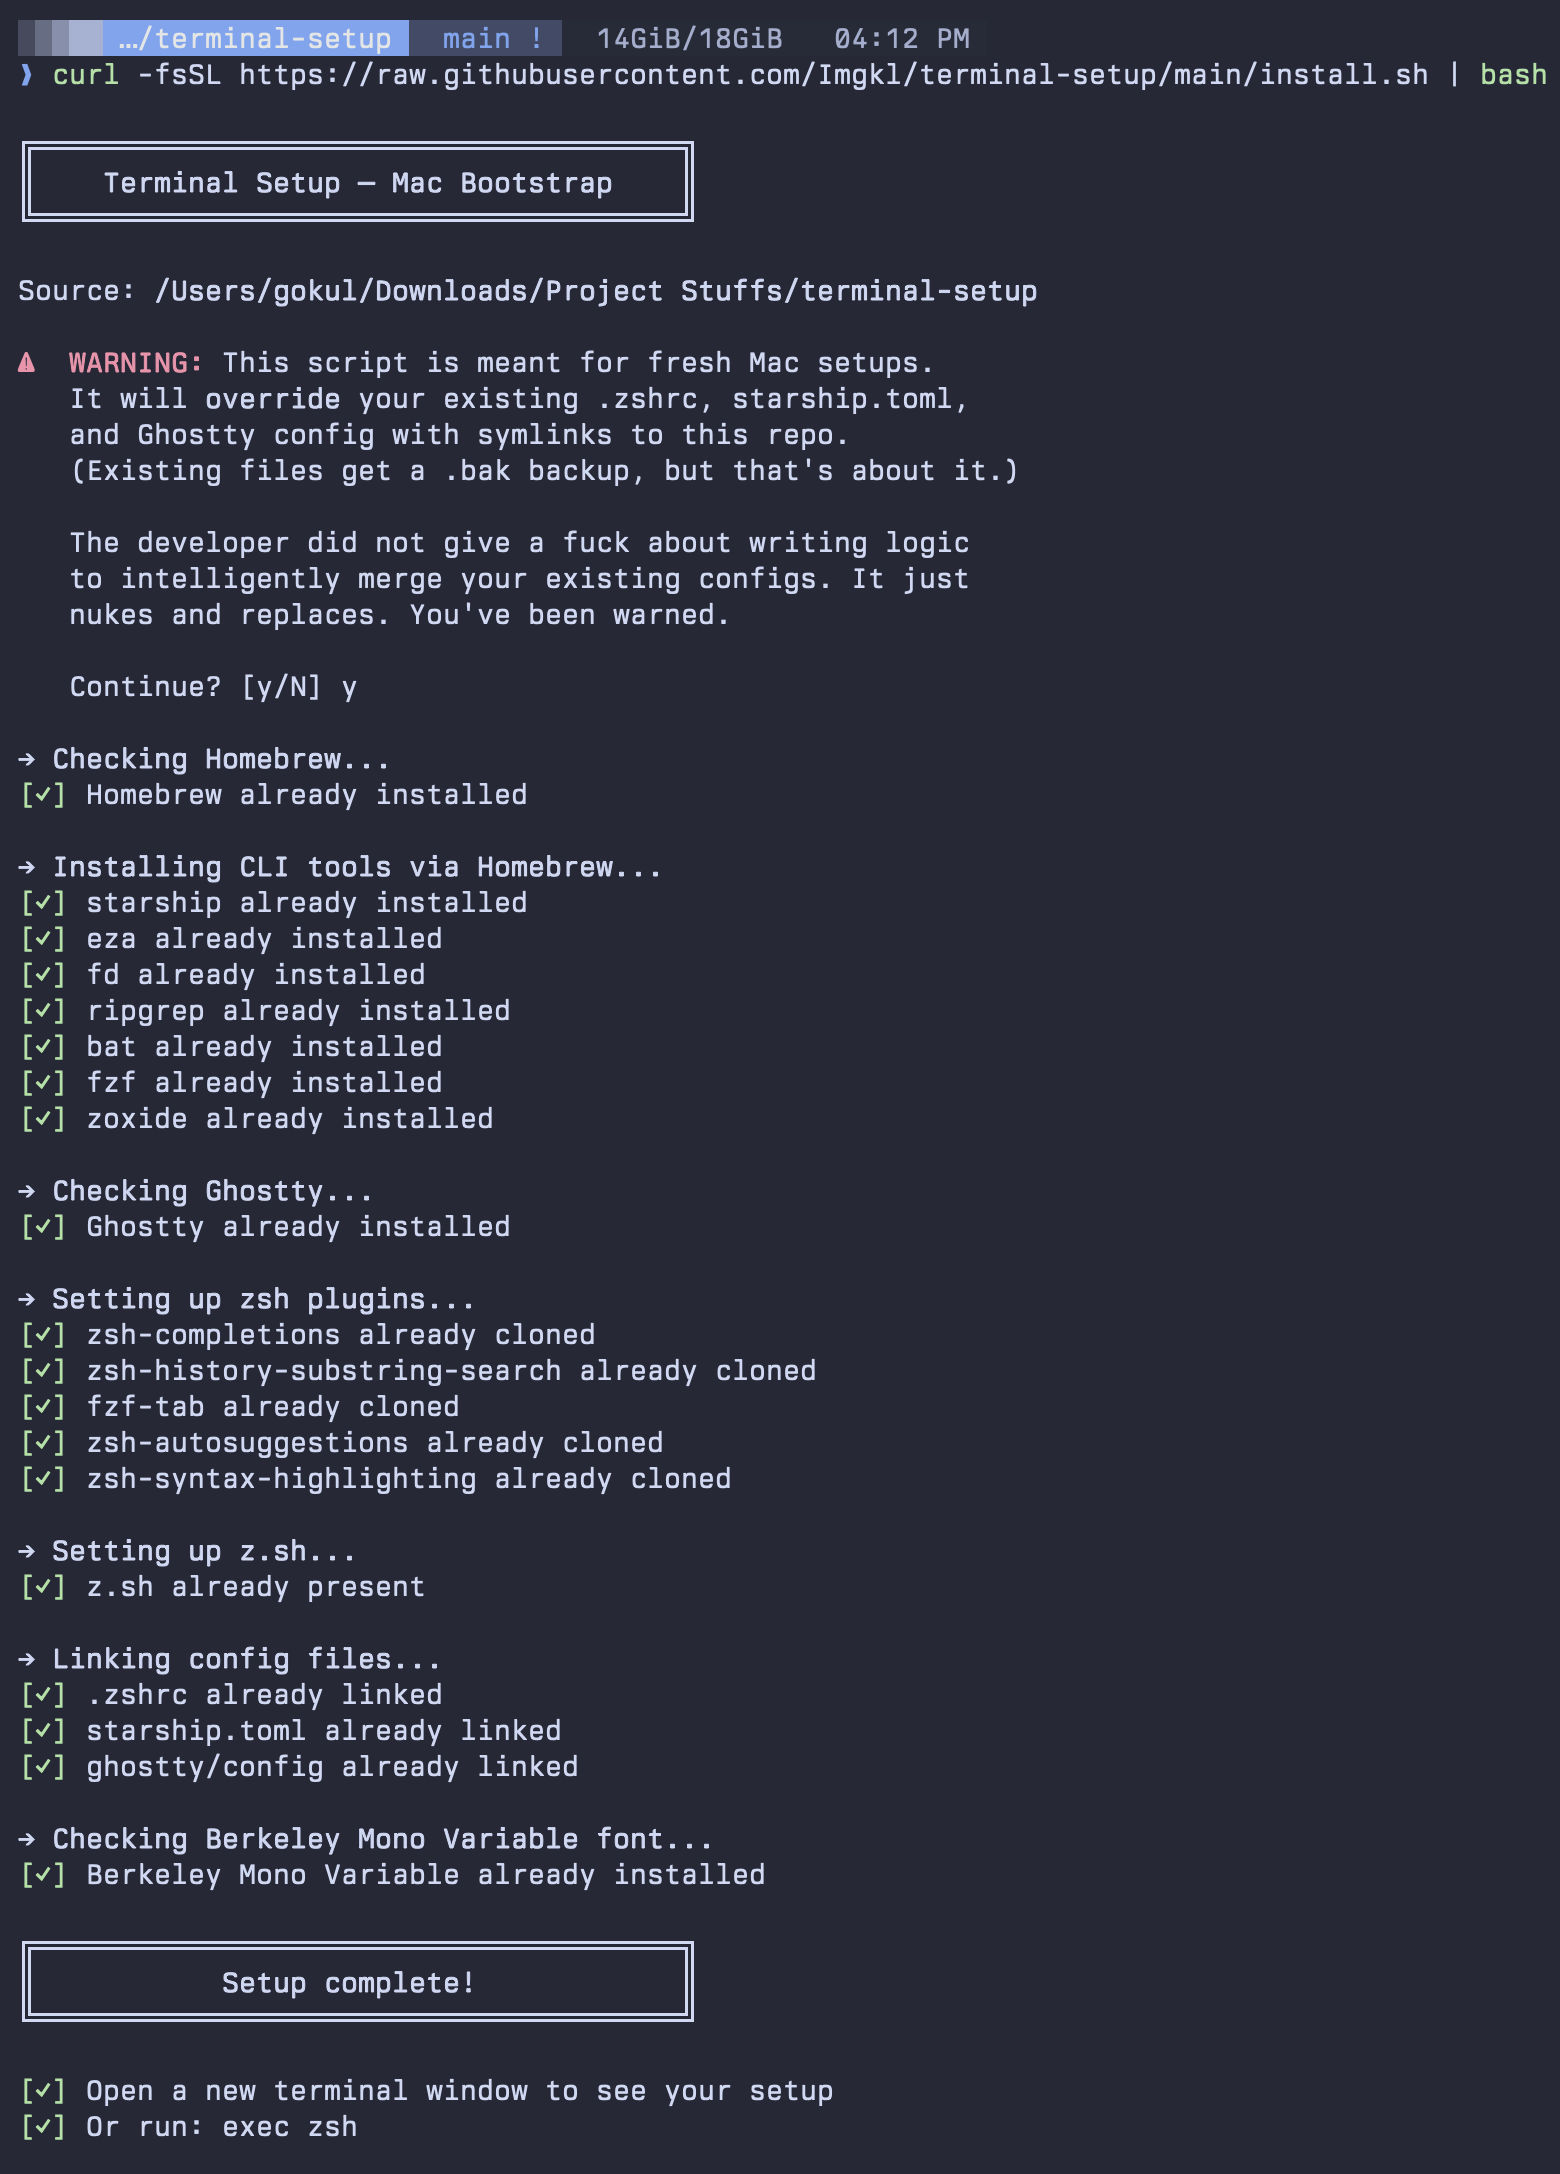
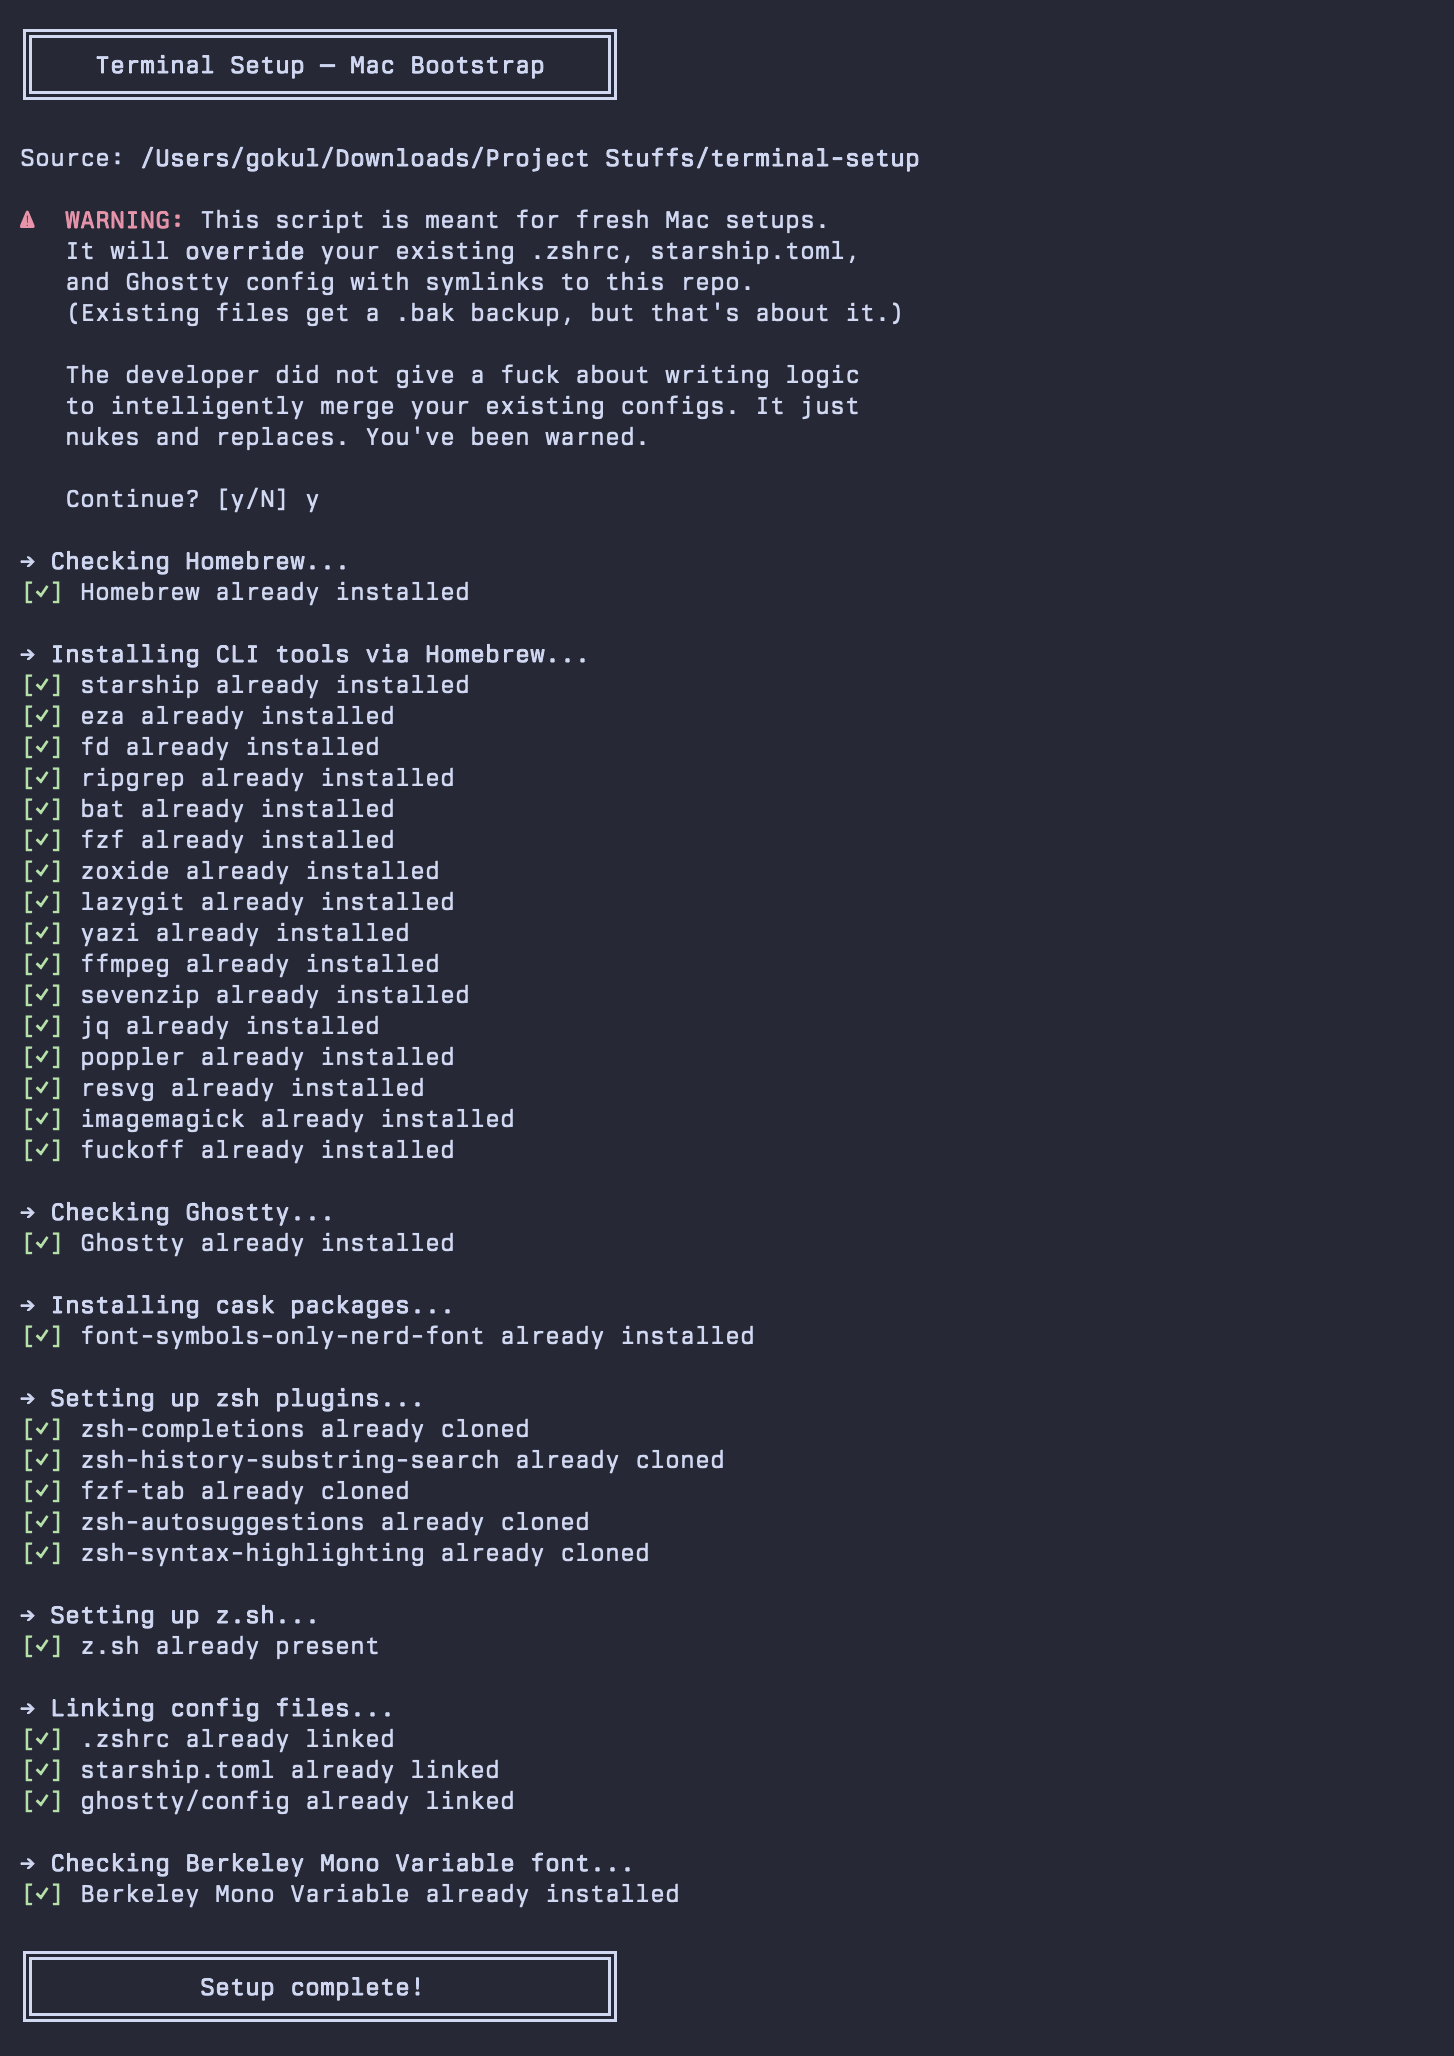
Update README with full package list and new screenshot

diff --git a/README.md b/README.md
@@ -23,16 +23,18 @@ bash install.sh
 ## What it does
 
 1. Installs **Homebrew** (if missing)
-2. Installs CLI tools via brew: `starship`, `eza`, `fd`, `ripgrep`, `bat`, `fzf`, `zoxide`
-3. Installs **Ghostty** terminal (via cask)
-4. Clones zsh plugins to `~/.zsh/`:
+2. Installs CLI tools via brew: `starship`, `eza`, `fd`, `ripgrep`, `bat`, `fzf`, `zoxide`, `lazygit`, `yazi`, `ffmpeg`, `sevenzip`, `jq`, `poppler`, `resvg`, `imagemagick`
+3. Installs [`fuckoff`](https://github.com/Imgkl/fuckoff) via custom tap
+4. Installs **Ghostty** terminal (via cask)
+5. Installs `font-symbols-only-nerd-font` (cask)
+6. Clones zsh plugins to `~/.zsh/`:
    - [fzf-tab](https://github.com/Aloxaf/fzf-tab)
    - [zsh-autosuggestions](https://github.com/zsh-users/zsh-autosuggestions)
    - [zsh-completions](https://github.com/zsh-users/zsh-completions)
    - [zsh-history-substring-search](https://github.com/zsh-users/zsh-history-substring-search)
    - [zsh-syntax-highlighting](https://github.com/zsh-users/zsh-syntax-highlighting)
-5. Symlinks `.zshrc`, `starship.toml`, and Ghostty config
-6. Backs up any existing configs to `.bak`
+7. Symlinks `.zshrc`, `starship.toml`, and Ghostty config
+8. Backs up any existing configs to `.bak`
 
 ## Font
 
